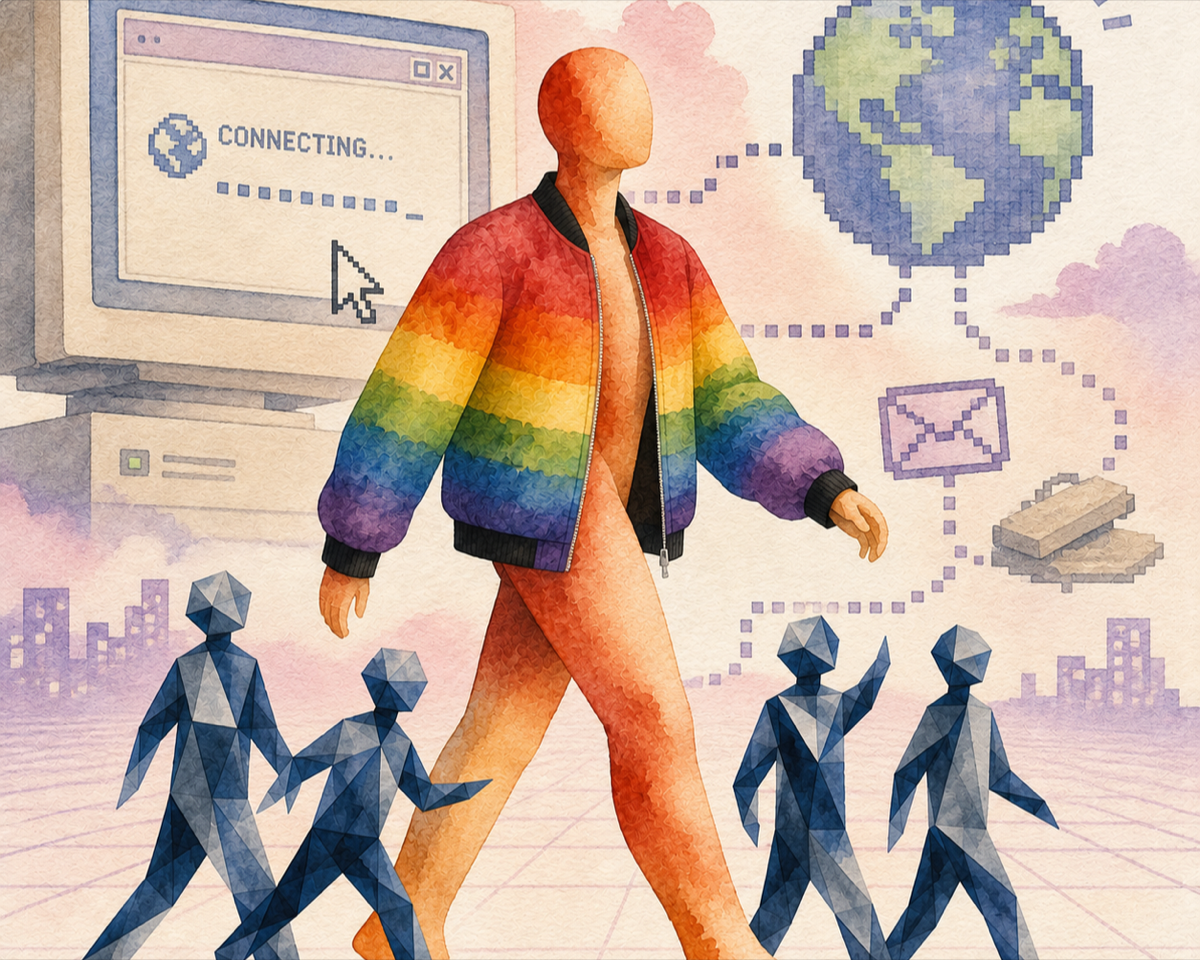
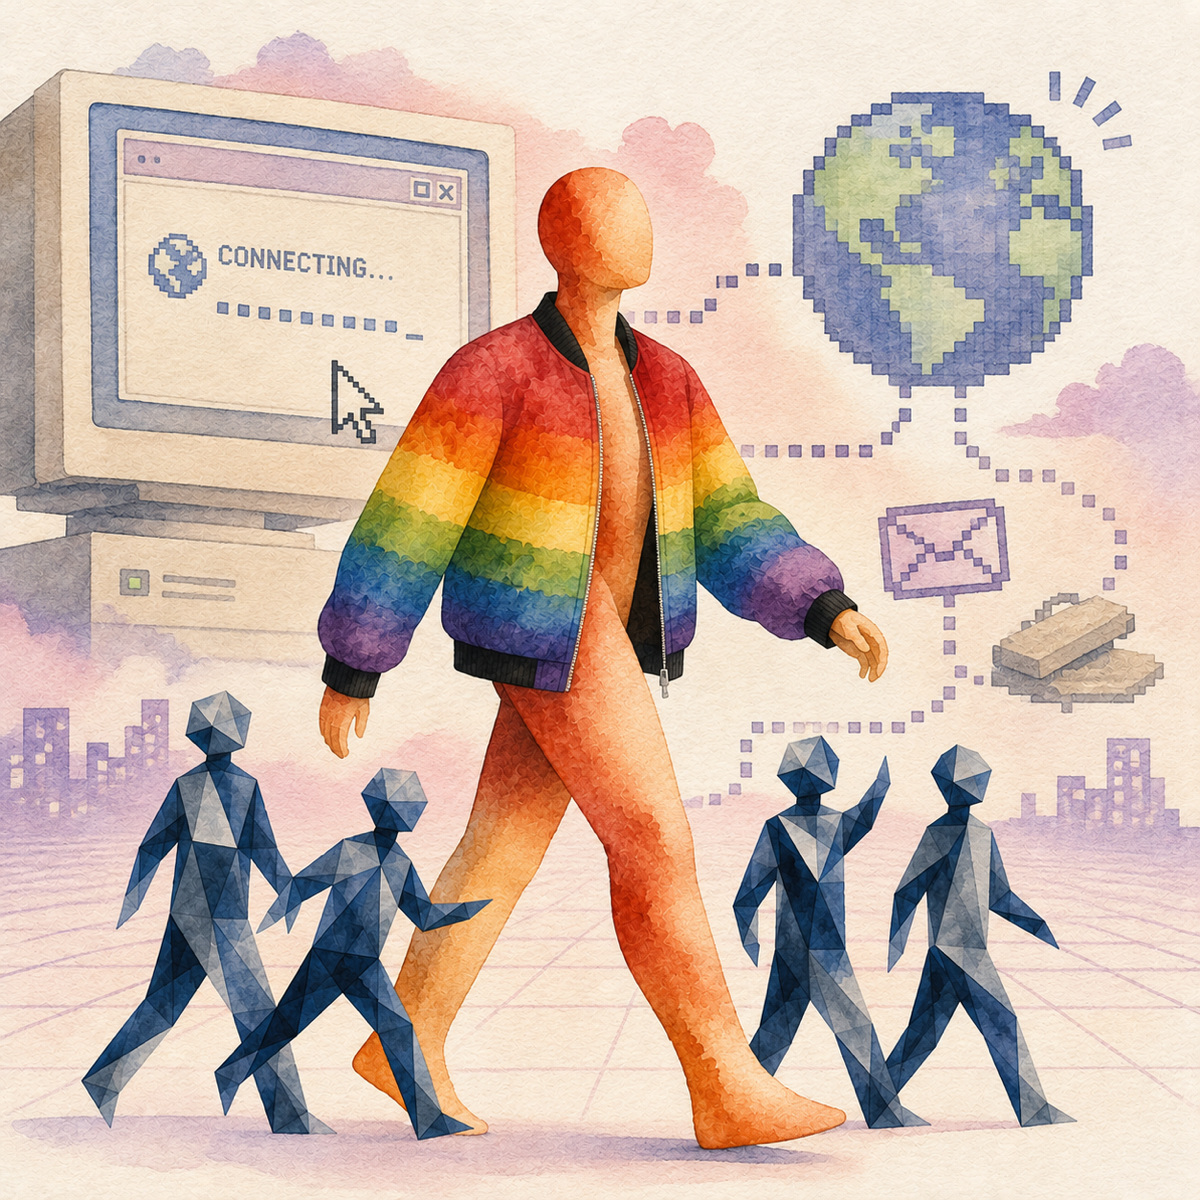
add(003): publish "Amplification" (Milena) + swap 002 cover to full square
- New post src/posts/003-amplification.md (Milena, verbatim body) + on-brand
  cover src/images/003-cover.png (warm organic + cool geometric figures)
- Post 2: swap cover to the undistorted full square illustration; fix alt text
- 003 video retell pending YouTube upload (48MB MP4 exceeds CF Pages limit)

diff --git a/src/posts/003-amplification.md b/src/posts/003-amplification.md
@@ -1,0 +1,115 @@
+---
+title: "Amplification"
+date: 2026-05-22T08:00:00+02:00
+author: milena
+description: "AI was everywhere across a season of events. Two moments stayed with me — one where the AI × HI relationship quietly compressed the people on stage, and one where it amplified them. The difference is what we ask AI to amplify."
+deck: ""
+cover:
+  src: "/images/003-cover.png"
+  alt: "Two figures in dialogue — a warm watercolor human figure with one arm raised in an expansive gesture, and a cool geometric figure echoing the same movement, its facets radiating outward; muted seated figures sit apart on the left. An image of amplification."
+ogImage: "/images/003-cover.png"
+tags:
+  - behavior
+  - amplification
+---
+
+
+**Amplification.**
+
+This is my AI x HI word for the past few weeks. Here is why:
+
+Over the last few weeks, I found myself attending a series of professional events. AI was naturally “the talk of the town.”
+
+Not just in sessions and keynotes. It was present in side conversations, coffee-break jokes, and casual comments exchanged between people trying to understand where all of this is heading.
+
+As I wrap up this event series, what stays with me are two different episodes that I could not help but connect to the AI x HI exploration we have started here. In one of them, the relationship felt right. In the other, it felt strangely off.
+
+And as I reflected on both experiences, I found myself wondering whether AI had amplified human intelligence — or quietly compressed it.
+
+So here is what happened.
+
+I sat in a session listening to a panel featuring a lineup of experienced and bright professionals. People with perspectives worth hearing. The kind of people you expect will spark interesting conversation simply by reacting to one another.
+
+So I joined the session with excitement and anticipation.
+
+And yet, as the discussion unfolded, it felt strangely flat.
+
+Everything was polished. The moderator read perfectly formulated questions, and the panelists responded with pre-scripted answers. Even though English was a second language for everyone on stage, the expressions were perfect and the sentences impeccable.
+
+But there was no real discussion.
+
+No unexpected turn.  
+No moment where someone followed curiosity.  
+No tension between ideas.  
+No sense that the conversation itself was discovering something in real time.
+
+Then, at the end, the moderator read concluding remarks and synthesized insights that had clearly been prepared in advance, polished with AI, and promptly printed on speaking cards.
+
+So yes, the wording was perfect.
+
+But something important had been optimized out of the interaction itself.
+
+The expertise on stage was there. But what was missing was the genuine human conversation driven by curiosity and the exchange of ideas.
+
+And that made me think of something interesting from a behavioral perspective.
+
+When powerful new tools emerge, we naturally steer towards them first to eliminate friction, uncertainty, and imperfections. It is almost instinctive to try to smooth rough edges and optimize.
+
+But in the process, we sometimes eliminate things that were never imperfections in the first place. Because perhaps not all friction is bad friction.
+
+Sometimes spontaneity creates value.
+
+Sometimes unpredictability creates meaning.
+
+Sometimes, imperfect human interaction is exactly what amplifies a moment or an intellectual discovery.
+
+In this case, in an effort to make expression more polished, the session had sacrificed something more important: the human process through which ideas evolve.
+
+Instead of amplifying the people on stage, the AI x HI relationship had quietly compressed them.
+
+I felt disappointed and, frankly, I cannot remember any of the points made — or rather read from speaking cards — during the session.
+
+But then, in another moment, a completely different situation unfolded.
+
+One of the events featured an extraordinary contributor — an artist, or as he describes himself, a “Troubadour, speaker & community-catalyst harmonizing humanity through music.” (look up [Jurgis Didžiulis](https://www.linkedin.com/in/jurgis-didziulis/))
+
+He was outstanding at it.
+
+At one moment, all of us were sitting in a room in professional mode, listening seriously to serious content.
+
+The next moment, we moved chairs aside to make extra space and were singing, dancing, and clapping.
+
+I remember thinking how unusual it was to see a room full of serious professionals transform so quickly. Everywhere I turned, there were smiles from ear to ear.
+
+This experience was not accidental.
+
+It was designed. Technology almost certainly played a role in preparing it, shaping it, and reducing uncertainty. 
+
+But then the magic was unlocked by pure human capability:  
+reading the room  
+responding to people  
+improvising  
+allowing human instinct to lead... in real time
+
+The script supported the human.  
+It amplified the human.  
+It amplified talent.  
+It amplified connection.
+
+And suddenly, I realized that the difference between these two experiences was not AI use versus non-use.   
+Both involved AI.  
+Both involved preparation and design.
+
+The difference was what AI was being asked to amplify. The first experience amplified smoothness and perfection. The second amplified curiosity, connection, and meaning.
+
+And that stays in both the heart and the mind.
+
+As I wrap up these weeks of travel and observation, I think I may have uncovered an important key to an AI x HI symbiosis that truly makes sense — one that strengthens the parts of ourselves we would least want to lose.
+
+So this week, and perhaps for some weeks ahead, my word is:
+
+**amplification**.
+
+🗣 **ME (90%)**: The observations, the curiosity, the behavioral interpretation & the meaning
+
+🤖 **AI (10%)**: Amplification through structure, stress-testing & editorial refinement

diff --git a/src/posts/002-my-api-not-my-resume.md b/src/posts/002-my-api-not-my-resume.md
@@ -9,7 +9,7 @@ tags:
   - agents
 cover:
   src: "/images/002-cover.png"
-  alt: "A professional sits at a desk with a glowing API schema visible in the air beside them, suggesting the idea of a queryable personal digital team."
+  alt: "A figure in a rainbow jacket strides forward flanked by small geometric companion figures — a personal digital team — moving together across an open space."
 ogImage: "/images/002-cover.png"
 youtubeId: "S4BlgOI0j68"
 ---